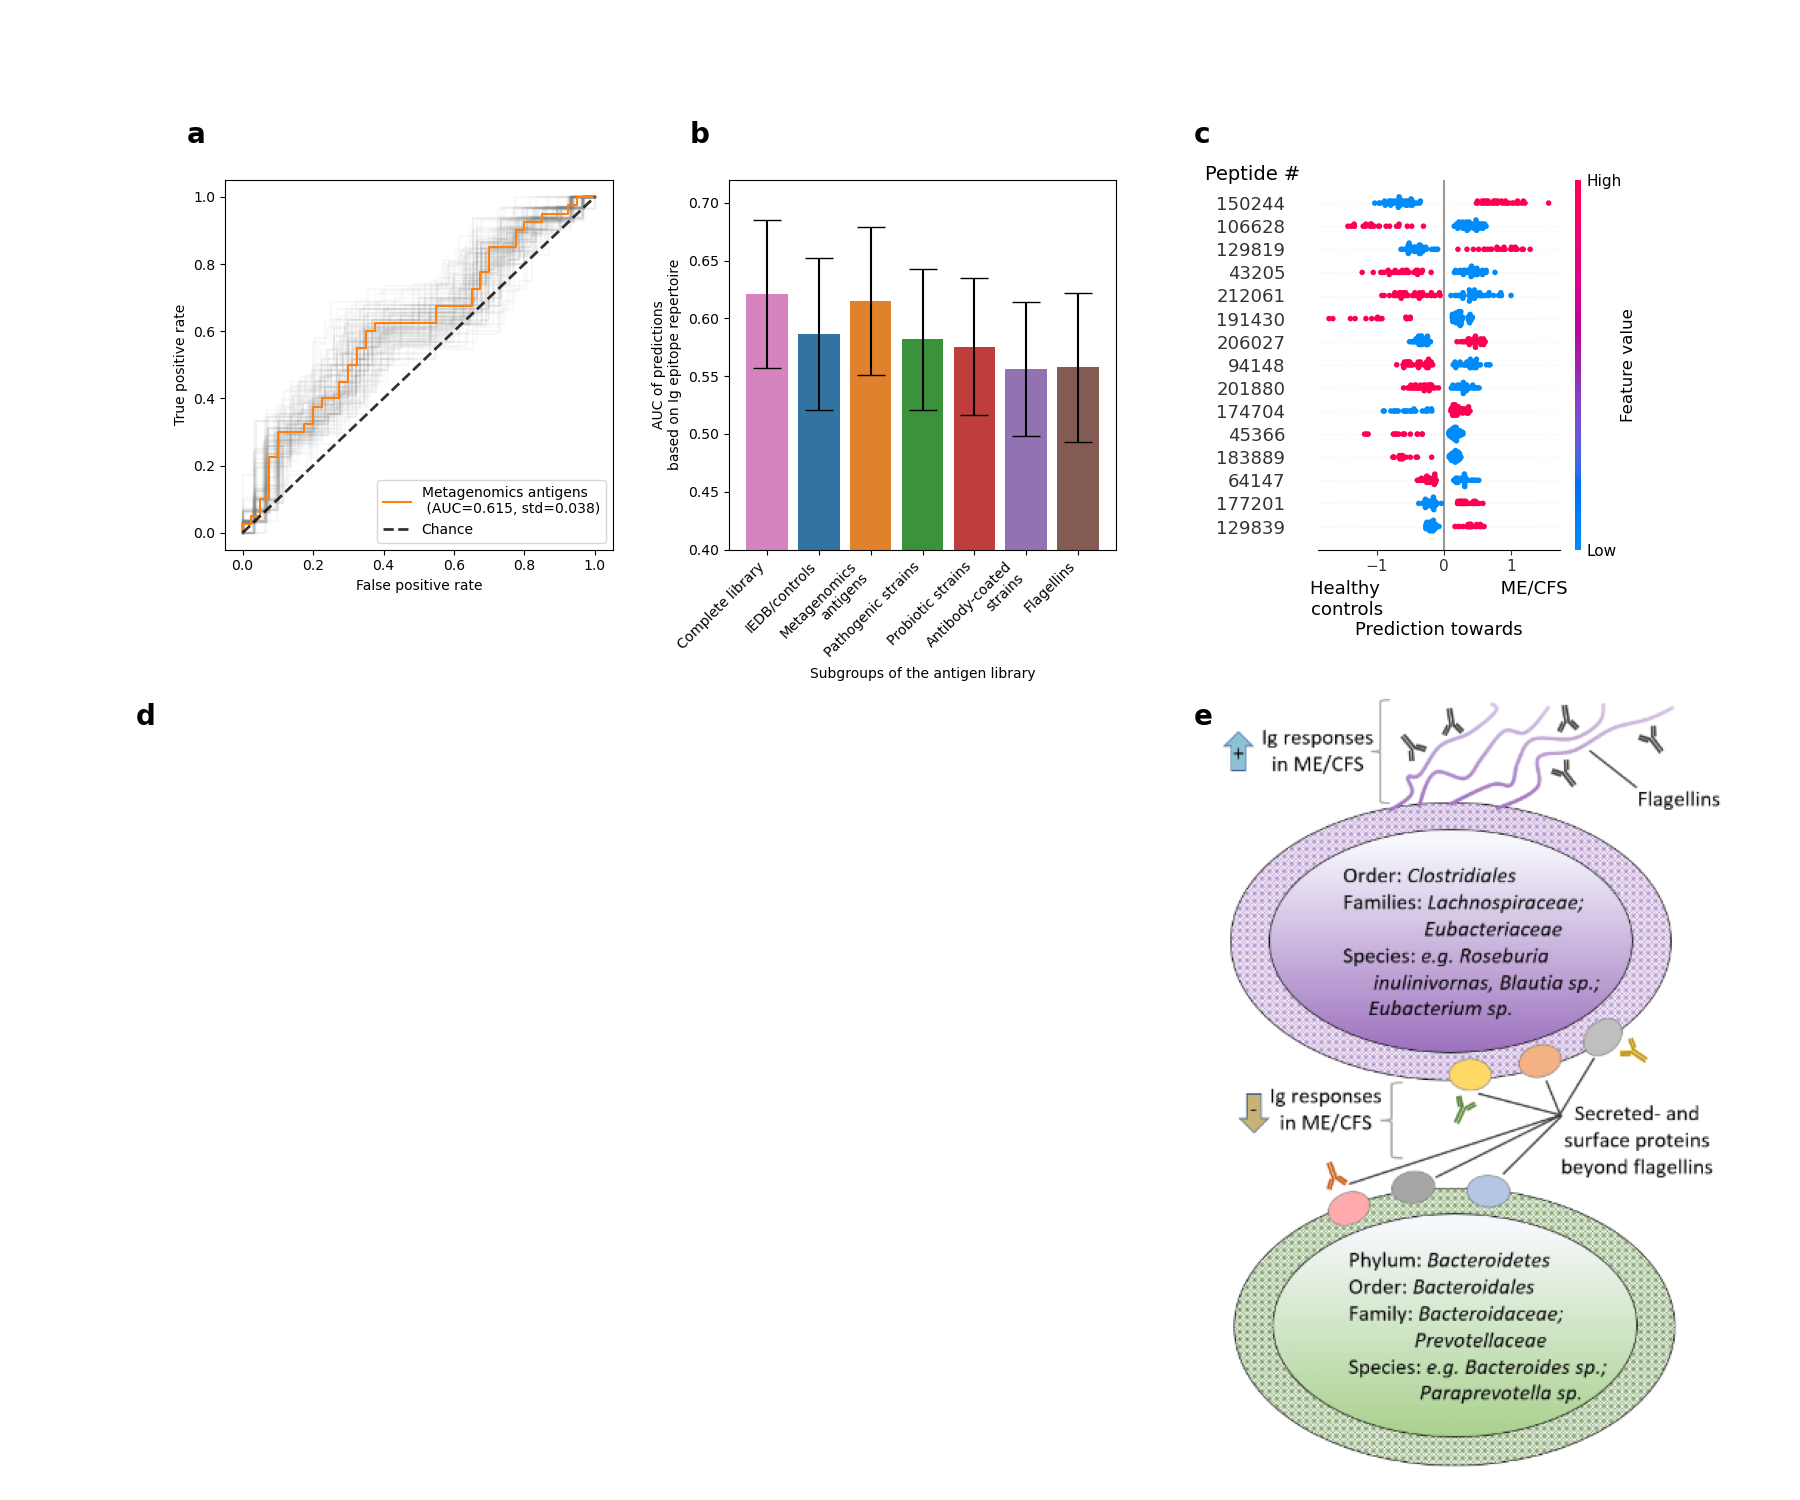
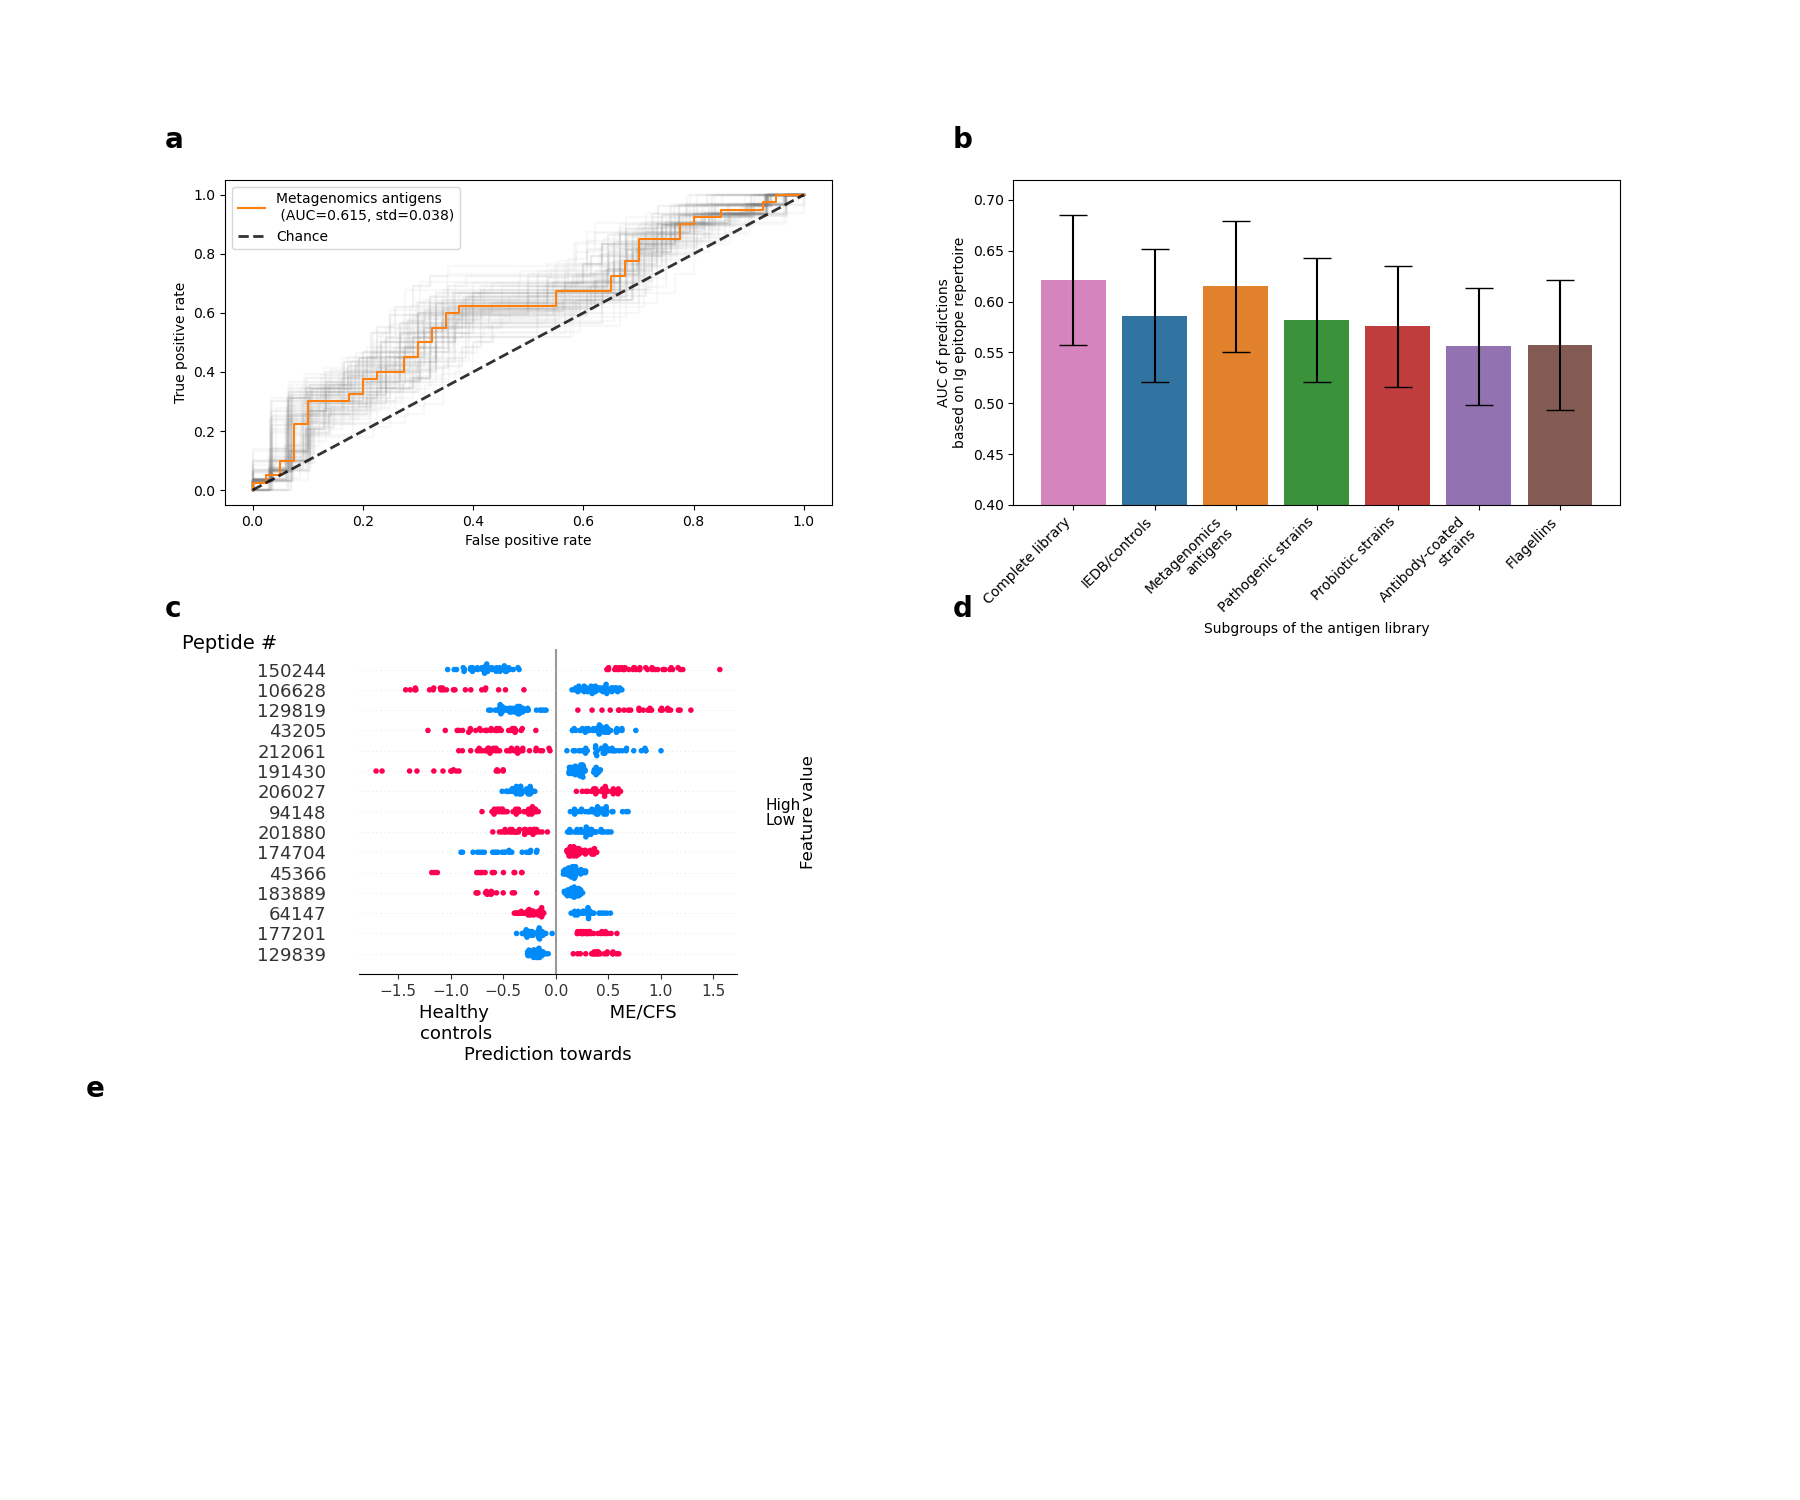
rev

diff --git a/PhageIPSeq_CFS/Figures_scripts/figure_3.py b/PhageIPSeq_CFS/Figures_scripts/figure_3.py
@@ -6,12 +6,13 @@ import numpy as np
 import pandas as pd
 import seaborn as sns
 import shap
+from matplotlib import pyplot as plt
+from scipy import stats
+
 from PhageIPSeq_CFS.config import visualizations_dir, predictors_info, predictions_outcome_dir, oligo_families_colors, \
     oligo_order, oligos_group_to_name
 from PhageIPSeq_CFS.helpers import get_outcome, get_x_y, get_oligos_metadata, \
     create_auc_with_bootstrap_figure, get_oligos_with_outcome
-from matplotlib import pyplot as plt
-from scipy import stats
 
 if __name__ == "__main__":
     figures_dir = os.path.join(visualizations_dir, 'figure_3')
@@ -20,7 +21,7 @@ if __name__ == "__main__":
     for estimator_name, estimator_info in predictors_info.items():
         predictor_kwargs = estimator_info['predictor_kwargs']
         fig = plt.figure(figsize=(18, 15))
-        spec = fig.add_gridspec(2, 3, hspace=0.5, wspace=0.3, height_ratios=[2, 3])
+        spec = fig.add_gridspec(3, 2, hspace=0.5, wspace=0.3, height_ratios=[3, 3, 2])
         num_auc_repeats = 100
 
         # Sub-figure a
@@ -55,7 +56,8 @@ if __name__ == "__main__":
         best_auc_df['subgroup'] = best_auc_df['subgroup'].apply(lambda subgroup: oligos_group_to_name[subgroup])
         best_auc_df['auc_ci'] = best_auc_df.apply(
             lambda row: np.array(stats.norm(0, row['std']).interval(0.95)), axis=1)
-        sns.barplot(data=best_auc_df, x='subgroup', y='auc', ci=None, ax=ax, palette=list(map(oligo_families_colors.get, oligo_order)),
+        sns.barplot(data=best_auc_df, x='subgroup', y='auc', ci=None, ax=ax,
+                    palette=list(map(oligo_families_colors.get, oligo_order)),
                     order=oligo_order)
         params = {'x': oligo_order, 'y': best_auc_df.set_index('subgroup').loc[oligo_order]['auc'].values,
                   'yerr': (best_auc_df.set_index('subgroup').loc[oligo_order]['std'] * stats.norm.ppf(
@@ -69,10 +71,11 @@ if __name__ == "__main__":
         ax.text(-0.1, 1.1, string.ascii_lowercase[1], transform=ax.transAxes, size=20, weight='bold')
 
         # Sub-figure c
-        ax = fig.add_subplot(spec[0, 2])
+        c_location = [1,0]
+        ax = fig.add_subplot(spec[c_location[0], c_location[1]])
         ax.set_axis_off()
         ax.text(-0.1, 1.1, string.ascii_lowercase[2], transform=ax.transAxes, size=20, weight='bold')
-        internal_spec = spec[0, 2].subgridspec(1, 2, width_ratios=[1, 6])
+        internal_spec = spec[c_location[0], c_location[1]].subgridspec(1, 2, width_ratios=[1, 6])
         ax = fig.add_subplot(internal_spec[0])
         ax.set_axis_off()
         ax = fig.add_subplot(internal_spec[1])
@@ -92,8 +95,8 @@ if __name__ == "__main__":
         shap_importance.set_index('col_name', inplace=True)
         shap_importance['oligo full name'] = get_oligos_metadata()['full name'].loc[shap_importance.index]
         shap_importance['Healthy percentage'], shap_importance['ME/CFS percentage'] = \
-        get_oligos_with_outcome('exist').reset_index(0).groupby('is_CFS').mean().mul(100).sort_index().T.loc[
-            shap_importance.index].T.values
+            get_oligos_with_outcome('exist').reset_index(0).groupby('is_CFS').mean().mul(100).sort_index().T.loc[
+                shap_importance.index].T.values
         shap_importance.to_csv(os.path.join(figures_dir, f"shap_values_{estimator_name}.csv"))
 
         ret = shap.plots.beeswarm(shap_values_ebm, max_display=15, show=False, plot_size=None,
@@ -101,38 +104,30 @@ if __name__ == "__main__":
         ax.set_yticklabels(list(
             map(lambda ticklabel: plt.Text(*ticklabel.get_position(), ticklabel.get_text().split("_")[1]),
                 ax.get_yticklabels())))
-        ax.text(ax.get_xlim()[0]*1.9, ax.get_yticklabels()[-1].get_position()[1] + 1, 'Peptide #', fontsize=14)
-        ax.set_xlabel("Healthy                     ME/CFS\ncontrols                                \nPrediction towards")
+        ax.text(ax.get_xlim()[0] * 1.9, ax.get_yticklabels()[-1].get_position()[1] + 1, 'Peptide #', fontsize=14)
+        ax.set_xlabel(
+            "Healthy                     ME/CFS\ncontrols                                \nPrediction towards")
 
         # Sub-figure d
-        ax = fig.add_subplot(spec[1, 0:2])
+        ax = fig.add_subplot(spec[1, 1])
         ax.set_axis_off()
-        # info_table = pd.read_csv(os.path.join(figures_dir, 'info_table.csv'), index_col=0)
-        # agilent_importance_order = list(map(lambda agilent: int(agilent.split('_')[1]), shap_importance.index.values))
-        # agilent_importance_order = [a for a in agilent_importance_order if a in info_table.index.values]
-        # info_table = info_table.loc[agilent_importance_order].reset_index()
-        # table = ax.table(cellText=info_table.astype(str).values, #rowLabels=info_table.index.values,
-        #                  colLabels=info_table.columns, loc='center left')#, colWidths=[0.15] * info_table.shape[1])
-        # table.set_fontsize(1000)
-        # table.scale(1, 2)
         ax.text(-0.1, 1.1, string.ascii_lowercase[3], transform=ax.transAxes, size=20, weight='bold')
 
         # Sub-figure e
-        ax = fig.add_subplot(spec[1, 2])
+        ax = fig.add_subplot(spec[2, :])
         ax.set_axis_off()
-        bounds = list(ax.get_position().bounds)
-        bounds[0] -= 0.02 # left
-        bounds[1] -= 0.09 # bottom
-        bounds[2] *= 1.4 # width
-        bounds[3] *= 1.4 # height
-
-        ax2 = fig.add_axes(bounds)
-        ax2.set_axis_off()
-        img = mpimg.imread(os.path.join(figures_dir, "Fig.3e.png"))
-        ax2.imshow(img, origin='upper')
-        ax = fig.add_subplot(spec[1, 2])
-        ax.set_axis_off()
+        # bounds = list(ax.get_position().bounds)
+        # bounds[0] -= 0.02  # left
+        # bounds[1] -= 0.09  # bottom
+        # bounds[2] *= 1.4  # width
+        # bounds[3] *= 1.4  # height
+        #
+        # ax2 = fig.add_axes(bounds)
+        # ax2.set_axis_off()
+        # img = mpimg.imread(os.path.join(figures_dir, "Fig.3e.png"))
+        # ax2.imshow(img, origin='upper')
+        # ax = fig.add_subplot(spec[2, :])
+        # ax.set_axis_off()
         ax.text(-0.1, 1.1, string.ascii_lowercase[4], transform=ax.transAxes, size=20, weight='bold')
 
-        # fig.subplots_adjust(bottom=0.3)
         plt.savefig(os.path.join(figures_dir, f'figure_3_{estimator_name}.png'))

diff --git a/PhageIPSeq_CFS/Figures_scripts/figure_1.py b/PhageIPSeq_CFS/Figures_scripts/figure_1.py
@@ -1,6 +1,7 @@
 import os
 import string
 
+import matplotlib.image as mpimg
 import matplotlib.patches as mpatches
 import matplotlib.pyplot as plt
 import pandas as pd
@@ -9,12 +10,11 @@ from scipy import stats
 from skbio.diversity.alpha import shannon
 from statannot import add_stat_annotation
 from statsmodels.stats.multitest import multipletests
-import matplotlib.image as mpimg
-
 
 from PhageIPSeq_CFS.config import visualizations_dir, oligo_families, oligo_families_colors, oligos_group_to_name
 from PhageIPSeq_CFS.helpers import get_data_with_outcome, get_oligos_metadata, split_xy_df_and_filter_by_threshold, \
     get_individuals_metadata_df
+
 
 def get_ratio_between_groups(group_name):
     df = get_data_with_outcome('exist')
@@ -26,11 +26,12 @@ def get_ratio_between_groups(group_name):
     stat, p_val = stats.ttest_ind(df.loc[True]['ratio'], df.loc[False]['ratio'])
     return stat, p_val
 
+
 def create_figure_1(overwrite=True):
     figures_dir = os.path.join(visualizations_dir, 'figure_1')
     os.makedirs(figures_dir, exist_ok=True)
     fig = plt.figure(figsize=(20, 10), constrained_layout=False)
-    spec = fig.add_gridspec(2, 3, hspace=0.3, wspace=0.3)#, top=0.2, bottom=0.5)
+    spec = fig.add_gridspec(2, 3, hspace=0.3, wspace=0.3)  # , top=0.2, bottom=0.5)
 
     # sub-figure a - Thomas will add manually the overview of the system
     ax = fig.add_subplot(spec[0, 0])
@@ -99,7 +100,8 @@ def create_figure_1(overwrite=True):
 
     df2 = get_data_with_outcome().fillna(1)
     df2['shannon_div'] = df2.apply(lambda row: shannon(row), axis=1)
-    df2['status'] = df2.reset_index()['is_CFS'].astype(bool).apply(lambda x: 'ME/CFS' if x else 'Healthy\ncontrols').values
+    df2['status'] = df2.reset_index()['is_CFS'].astype(bool).apply(
+        lambda x: 'ME/CFS' if x else 'Healthy\ncontrols').values
 
     internal_figure_spec = spec[0, 2].subgridspec(1, 2, wspace=0.6)
     ax = fig.add_subplot(internal_figure_spec[0])
@@ -113,7 +115,7 @@ def create_figure_1(overwrite=True):
     ax = fig.add_subplot(internal_figure_spec[1])
     ax = sns.boxplot(data=df2, x='status', y='shannon_div', palette=sns.color_palette()[-2:][::-1], ax=ax)
     ax.set_xlabel('')
-    ax.set_ylabel(r'Shannon $\alpha$-diversity' +' of\nantibody epitope repertoires')
+    ax.set_ylabel(r'Shannon $\alpha$-diversity' + ' of\nantibody epitope repertoires')
     add_stat_annotation(data=df2, x='status', y='shannon_div', ax=ax,
                         box_pairs=[['ME/CFS', 'Healthy\ncontrols']], test='Mann-Whitney'
                         )
@@ -188,20 +190,22 @@ def create_figure_1(overwrite=True):
     for group in metadata.columns:
         df_group = df.loc[:, metadata[group]].sum(axis=1)
         rank_sum_res[group] = stats.ranksums(df_group.loc[1], df_group.loc[0], alternative='greater')
-    rank_sum_res = pd.DataFrame(rank_sum_res).T.rename(columns={0: 'Ranksums', 1: 'p-value'})
-    rank_sum_res['Ranksums'] = rank_sum_res['Ranksums'].round(1)
-    rank_sum_res['Ranksums\np-value'] = rank_sum_res['p-value'].apply('{:.3f}'.format)
+    rank_sum_res = pd.DataFrame(rank_sum_res).T.rename(columns={0: 'MWW', 1: 'p-value'})
+    rank_sum_res['MWW'] = rank_sum_res['MWW'].round(1)
+    rank_sum_res['MWW\np-value'] = rank_sum_res['p-value'].apply('{:.3f}'.format)
     rank_sum_res.sort_values(by='p-value', inplace=True)
     rank_sum_res.drop(columns='p-value', inplace=True)
     ratio_t_tests = pd.DataFrame({oligos_group_to_name[oligo_family]: dict(
         zip(['t-test\nstatistic', 't-test\np-value'], get_ratio_between_groups(oligo_family))) for oligo_family in
-                                  oligo_families}).T
+        oligo_families}).T
     rank_sum_res = rank_sum_res.merge(ratio_t_tests, left_index=True, right_index=True, how='left')
     rank_sum_res['t-test\nstatistic'] = rank_sum_res['t-test\nstatistic'].round()
-    rank_sum_res['t-test\np-value'] = rank_sum_res['t-test\np-value'].apply(lambda val: 'n.a.' if pd.isnull(val) else '{:.0e}'.format(val))
+    rank_sum_res['t-test\np-value'] = rank_sum_res['t-test\np-value'].apply(
+        lambda val: 'n.a.' if pd.isnull(val) else '{:.0e}'.format(val))
     rank_sum_res.fillna('n.a.', inplace=True)
     table = ax.table(cellText=rank_sum_res.astype(str).values, rowLabels=rank_sum_res.index.values,
-                     colLabels=rank_sum_res.columns, loc='center right', colWidths=[0.15]*rank_sum_res.shape[1])
+                     colLabels=['t-test\nstatistic', 't-test\np-value', 'MWW', 'MWW\np-value'], loc='center right',
+                     colWidths=[0.15] * rank_sum_res.shape[1])
     table.scale(1, 2.9)
     ax.text(-0.1, 1.1, string.ascii_lowercase[5], transform=ax.transAxes, size=20, weight='bold')
 

diff --git a/PhageIPSeq_CFS/config.py b/PhageIPSeq_CFS/config.py
@@ -14,15 +14,18 @@ oligos_group_to_name = {'is_PNP': 'Metagenomics\nantigens', 'all': 'Complete lib
                         'is_bac_flagella': 'Flagellins', 'is_IEDB_or_cntrl': 'IEDB/controls'}
 oligo_order = ['Complete library', 'IEDB/controls', 'Metagenomics\nantigens', 'Pathogenic strains', 'Probiotic strains',
                'Antibody-coated\nstrains', 'Flagellins']
-oligo_families_colors = dict(zip(oligo_order[1:], sns.color_palette()[:len(oligo_order)-1]))
-oligo_families_colors[oligo_order[0]] = sns.color_palette()[len(oligo_order)-1]
+oligo_families_colors = dict(zip(oligo_order[1:], sns.color_palette()[:len(oligo_order) - 1]))
+oligo_families_colors[oligo_order[0]] = sns.color_palette()[len(oligo_order) - 1]
 RANDOM_STATE = 156124
-predictors_info = {'xgboost': {'predictor_class': XGBClassifier, 'predictor_kwargs': {'use_label_encoder': False,
-                                                                                      'objective': 'binary:logistic',
-                                                                                      'eval_metric': 'logloss',
-                                                                                      'nthread': 1}},
-                   'GBR': {'predictor_class': GradientBoostingClassifier,
-                           'predictor_kwargs': {"n_estimators": 2000, "learning_rate": .01, "max_depth": 6,
-                                                "max_features": 1,
-                                                "min_samples_leaf": 10}}}
+predictors_info = {
+    'xgboost': {'predictor_class': XGBClassifier,
+                'predictor_kwargs': {'use_label_encoder': False,
+                                     'objective': 'binary:logistic',
+                                     'eval_metric': 'logloss',
+                                     'nthread': 1}},
+    'GBR': {'predictor_class': GradientBoostingClassifier,
+            'predictor_kwargs': {"n_estimators": 2000, "learning_rate": .01, "max_depth": 6,
+                                 "max_features": 1,
+                                 "min_samples_leaf": 10}}
+}
 num_auc_repeats = 200
